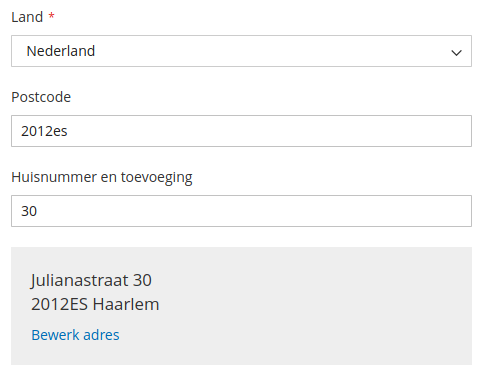
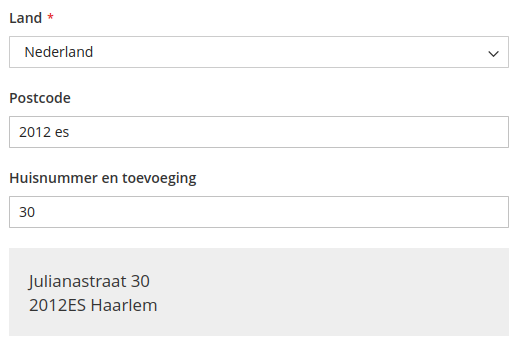
Issue #16: Remove address-edit link

diff --git a/view/frontend/web/js/form/components/address-autofill-formatted-output.js b/view/frontend/web/js/form/components/address-autofill-formatted-output.js
@@ -58,15 +58,5 @@ define([
             this.content(address.mailLines[0] +'<br>' + address.mailLines[1]);
             this.visible(true);
         },
-
-        editAddress: function () {
-            const fields = ['street', 'city', 'postcode', 'regionIdInput'];
-
-            for (let i in fields) {
-                this[fields[i]]().visible(true);
-            }
-
-            this.visible(false);
-        },
     });
 });

diff --git a/view/frontend/web/template/content/address-autofill-formatted-output.html b/view/frontend/web/template/content/address-autofill-formatted-output.html
@@ -1,5 +1,3 @@
 <div css="$data.additionalClasses" visible="visible">
     <address html="content"></address>
-
-    <a data-bind="click: editAddress, i18n: 'Bewerk adres'">Bewerk adres</a>
 </div>

diff --git a/view/frontend/web/css/source/_module.less b/view/frontend/web/css/source/_module.less
@@ -18,9 +18,4 @@
 
 .address-autofill-formatted-output address {
     font-size: 120%;
-    margin-bottom: 10px;
-}
-
-.address-autofill-formatted-output a {
-    cursor: pointer;
 }
